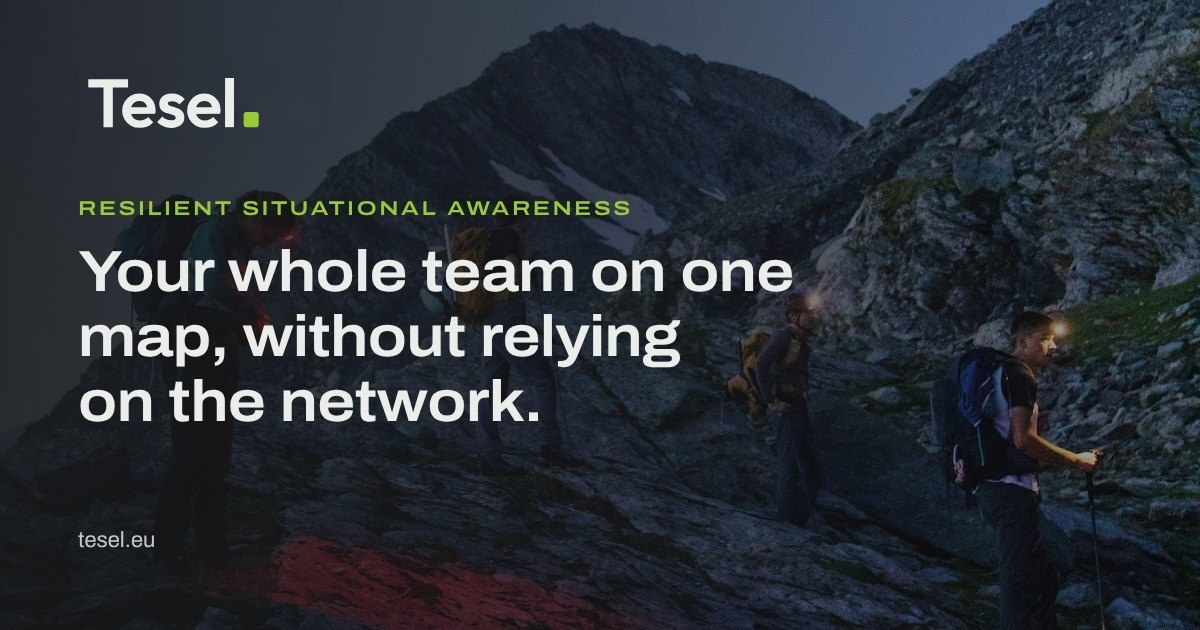
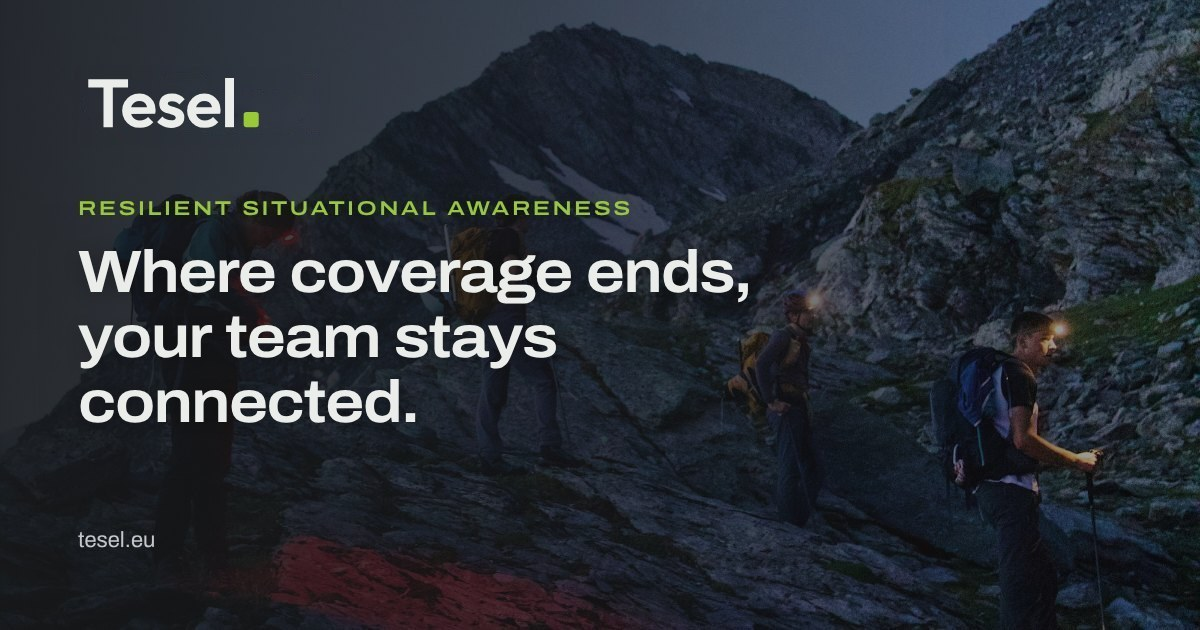
feat(site): say which network: where coverage ends, the team stays connected
"Sin depender de la red" did not say which network. The heading is now
"Donde se acaba la cobertura, tu equipo sigue conectado." ("Where coverage
ends, your team stays connected."), and the lead says the nodes in plain
words. The pictures for shared links carry the new heading.

Claude-Session: https://claude.ai/code/session_01Hfm8dyPBUQ5nGwrtNpfWec

Changed region(s): [[0.0617, 0.3921, 0.6783, 0.6937]]

diff --git a/apps/site/en/index.html b/apps/site/en/index.html
@@ -29,7 +29,7 @@
     <meta property="og:image:height" content="630" />
     <meta
       property="og:image:alt"
-      content="Tesel: resilient situational awareness. Your whole team on one map, without relying on the network."
+      content="Tesel: resilient situational awareness. Where coverage ends, your team stays connected."
     />
     <meta property="og:locale" content="en_GB" />
     <meta property="og:locale:alternate" content="es_ES" />
@@ -88,11 +88,11 @@
         </picture>
         <div class="wrap">
           <p class="eyebrow">Resilient situational awareness</p>
-          <h1>Your whole team on one map, without&nbsp;relying on the network.</h1>
+          <h1>Where coverage ends, your team stays&nbsp;connected.</h1>
           <p class="lead">
             Where everyone is, what is happening and who is taking care of what, on every team
-            member's phone. And if coverage is lost, it keeps working over a network of nodes of its
-            own, with no masts and no operators.
+            member's phone. And where there is no phone signal, Tesel keeps working with small nodes
+            that pass the messages on from one to the next, with no masts and no operators.
           </p>
           <div class="actions">
             <a class="button" href="../app/">Open Tesel</a>

diff --git a/apps/site/index.html b/apps/site/index.html
@@ -31,7 +31,7 @@
     <meta property="og:image:height" content="630" />
     <meta
       property="og:image:alt"
-      content="Tesel: consciencia situacional resiliente. Todo tu equipo en el mismo mapa, sin depender de la red."
+      content="Tesel: consciencia situacional resiliente. Donde se acaba la cobertura, tu equipo sigue conectado."
     />
     <meta property="og:locale" content="es_ES" />
     <meta property="og:locale:alternate" content="en_GB" />
@@ -85,11 +85,11 @@
         </picture>
         <div class="wrap">
           <p class="eyebrow">Consciencia situacional resiliente</p>
-          <h1>Todo tu equipo en el mismo mapa, sin&nbsp;depender de la red.</h1>
+          <h1>Donde se acaba la cobertura, tu equipo sigue&nbsp;conectado.</h1>
           <p class="lead">
             Dónde está cada uno, qué está pasando y quién se ocupa de qué, en el móvil de todo el
-            equipo. Y si se pierde la cobertura, sigue funcionando por una red propia de nodos, sin
-            antenas ni operadoras.
+            equipo. Y donde no hay señal de móvil, Tesel sigue funcionando con pequeños nodos que se
+            pasan los mensajes de uno a otro, sin antenas ni operadoras.
           </p>
           <div class="actions">
             <a class="button" href="app/">Abrir Tesel</a>

diff --git a/CHANGELOG.md b/CHANGELOG.md
@@ -145,6 +145,7 @@ The first version: a shared map for a group, over the internet and over MeshCore
 - What an audit of the radio, the group's state and its sync left, put right ([ADR-0111](docs/decisions/0111-airtime-kept-numbers-per-group.md)): the radio's airtime of the last hour is kept on the device, so a reload no longer lets it spend the urgent 10 % twice in an hour, and one window of the app at a time drives a radio, another one saying it is in use there; a newer version in another window waits for the databases while an own SOS is open or a radio linked; each group numbers a device's events on its own, so its members no longer see the numbers jump by what the device writes in other groups, starting above every number used before; an answer ends an own SOS's repeats only in its own group, and SOS notifications of two groups no longer replace each other; a Meshtastic link keeps at most 500 nodes and no position off the Earth, and a failing listener no longer drops it; an old link let go late no longer drops a newer one to the same radio; who walks a strip and the order of SOS calls are the same on every device when events share a second; and a live event, or a group of hours of positions, is applied in a fraction of the time.
 - Energy saving, on by default and switched in Settings: after a minute untouched the screen goes black (the time, the link, the way while guiding), and the touch that brings it back does nothing else, after ten the GPS takes a fix once a minute; an SOS, a task handed over, a danger zone or the check-in wakes it with a vibration and a tone, a chat line only vibrates ([ADR-0097](docs/decisions/0097-energy-saving.md)).
 - Pocket mode in place of the black screen: a padlock among the map's controls puts it on at once, and «Modo bolsillo automático» in Settings after a minute untouched; the screen goes almost black with the time and the link, a touch does nothing, and sliding the handle at its foot brings the app back. Another member's SOS, a task handed over, a danger area or the check-in still end it ([ADR-0127](docs/decisions/0127-pocket-mode-and-sos-outside.md)).
+- The site's heading says what the network was: "Donde se acaba la cobertura, tu equipo sigue conectado." ("Where coverage ends, your team stays connected."), with the nodes explained in plain words below it, in the page and in the pictures for shared links.
 - A new logo: the word "Tesel" followed by a lime tile on its baseline, and for the icons a T with that tile at its foot, in the app, the Android app, the site and the report ([ADR-0129](docs/decisions/0129-the-word-and-a-tile.md)).
 - The Android app no longer closes when Android refuses something it asks: keeping it running with the screen off, which Android 12 and later refuse while the app is not on screen, is asked again when it is back; a share menu that does not open copies the location instead ([ADR-0125](docs/decisions/0125-android-app-with-the-screen-off.md)).
 - Entering a group shares the position at once: by the invitation the app first opens with, and by creating a group, each says so; the card «No compartes tu posición» no longer asks a second time. Joining from a device already in another group still asks ([ADR-0128](docs/decisions/0128-entering-a-group-shares-the-position.md)).

diff --git a/apps/site/img/README.md b/apps/site/img/README.md
@@ -11,4 +11,4 @@ place the app gives it; take them again with the simulator when the app itself c
 
 `net-coverage.svg`, `net-mesh.svg` and `net-bridge.svg`: the home page's diagrams of how a message travels (ADR-0088, redrawn in ADR-0113): with coverage, through the server; without it, from node to node over the mesh; and through a phone that bridges both. Each is a panel of the dark section with phones, the server and nodes drawn after the MeshTracker X1. No words, so both languages share them. Written by `tools/site-diagrams/build.py`; change them there.
 
-`share-es.jpg` and `share-en.jpg`: the picture a link to the home page shows when shared (Open Graph), 1200 × 630, one per language: `hero.jpg` darkened towards the left in graphite, with the pale logo, the home page's eyebrow and heading in Archivo, and the address. Rendered from a small HTML page in Chromium and saved as JPEG; to change the words, render them again the same way. For the logos of ADR-0095 and ADR-0116 only the lockup was replaced: the picture under the old one rebuilt from `hero.jpg`, the new one drawn as tall as the old, where it stood. For the logo of ADR-0129 the old lockup was painted out of the picture (OpenCV's inpainting, on the dark sky behind it) and the pale logo drawn from the same left edge, its l as tall as the old word's.
+`share-es.jpg` and `share-en.jpg`: the picture a link to the home page shows when shared (Open Graph), 1200 × 630, one per language: `hero.jpg` darkened towards the left in graphite, with the pale logo, the home page's eyebrow and heading in Archivo, and the address. Rendered from a small HTML page in Chromium and saved as JPEG; to change the words, render them again the same way. For the logos of ADR-0095 and ADR-0116 only the lockup was replaced: the picture under the old one rebuilt from `hero.jpg`, the new one drawn as tall as the old, where it stood. For the logo of ADR-0129 the old lockup was painted out of the picture (OpenCV's inpainting, on the dark sky behind it) and the pale logo drawn from the same left edge, its l as tall as the old word's. On 12 November 2026 the heading changed ("Donde se acaba la cobertura, tu equipo sigue conectado."): the old one was replaced by the photo under it, `hero.jpg` at 0.6 of its size from 108 pixels down, with the graphite laid over it measured column by column from the picture itself, and the new heading set over it in Archivo as the site sets its own (59.6 pixels, weight 650, width 112 %, the same shadow).
